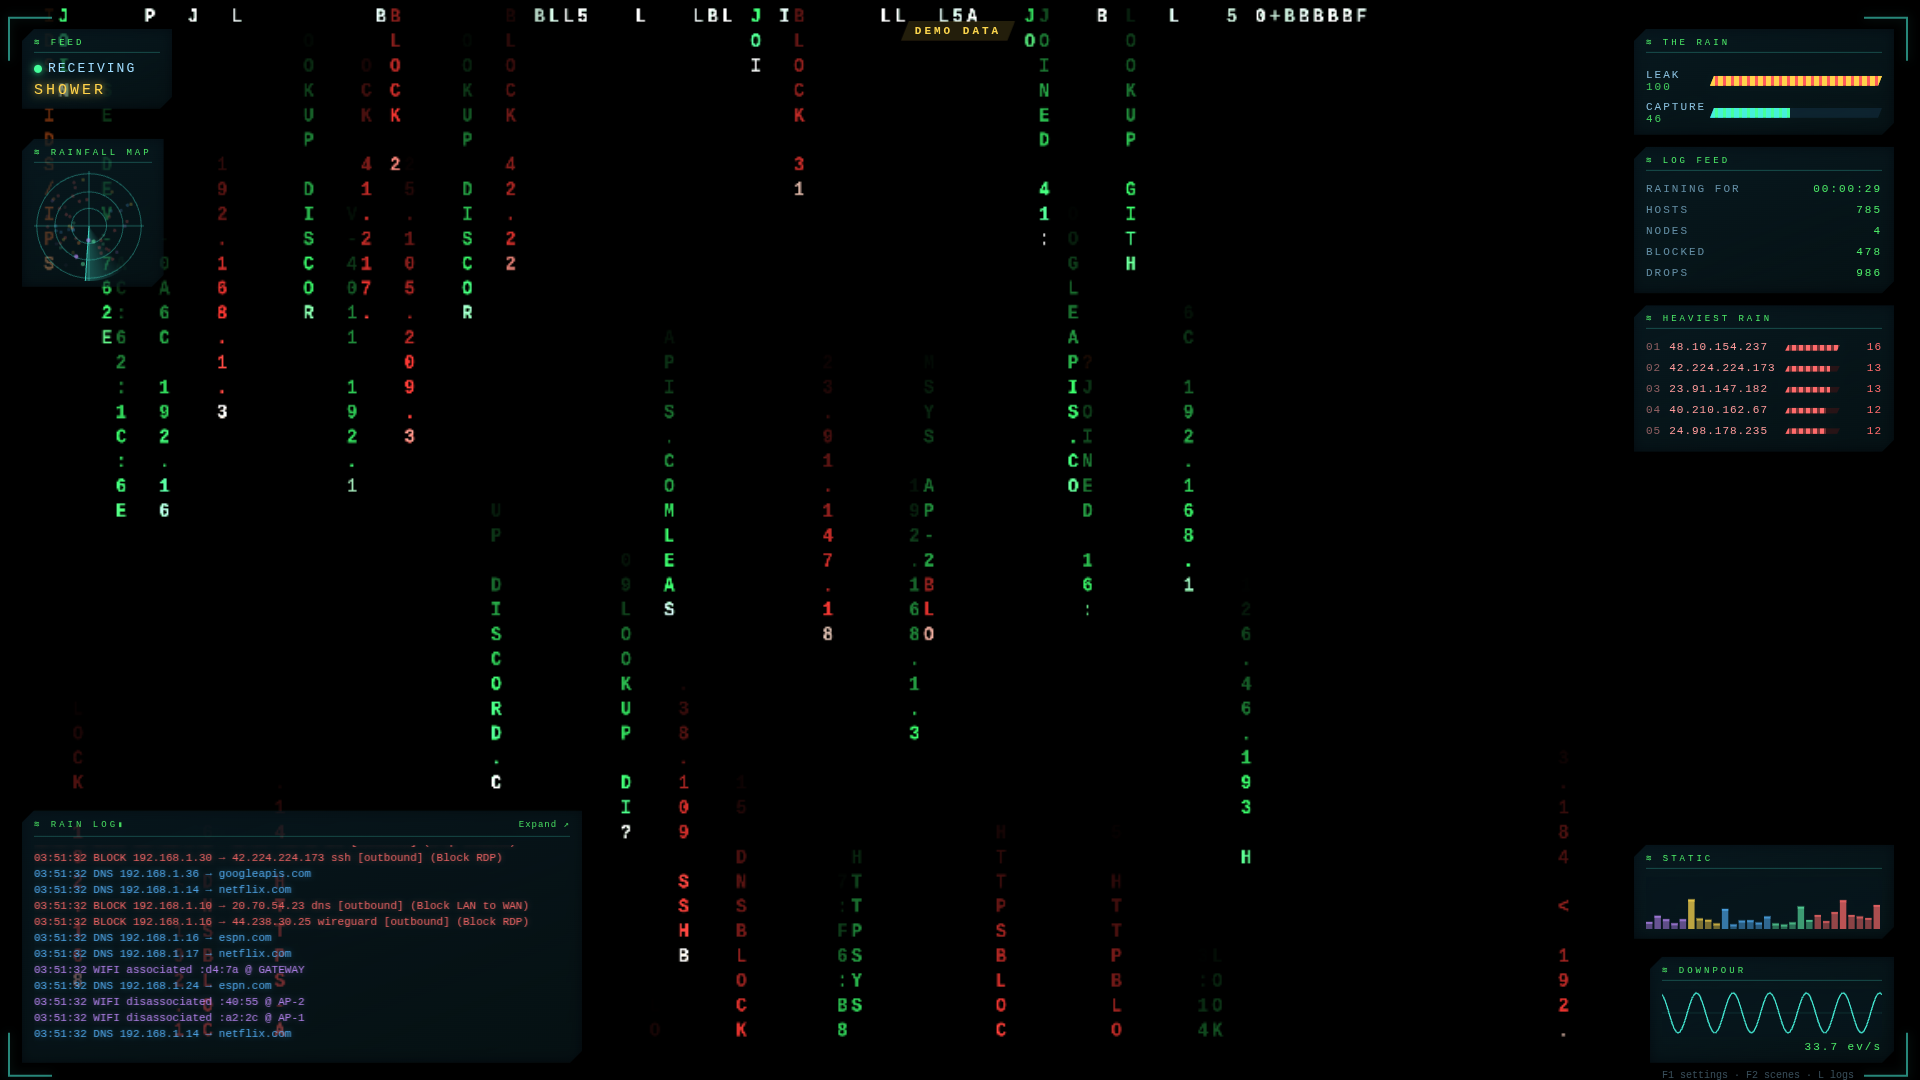
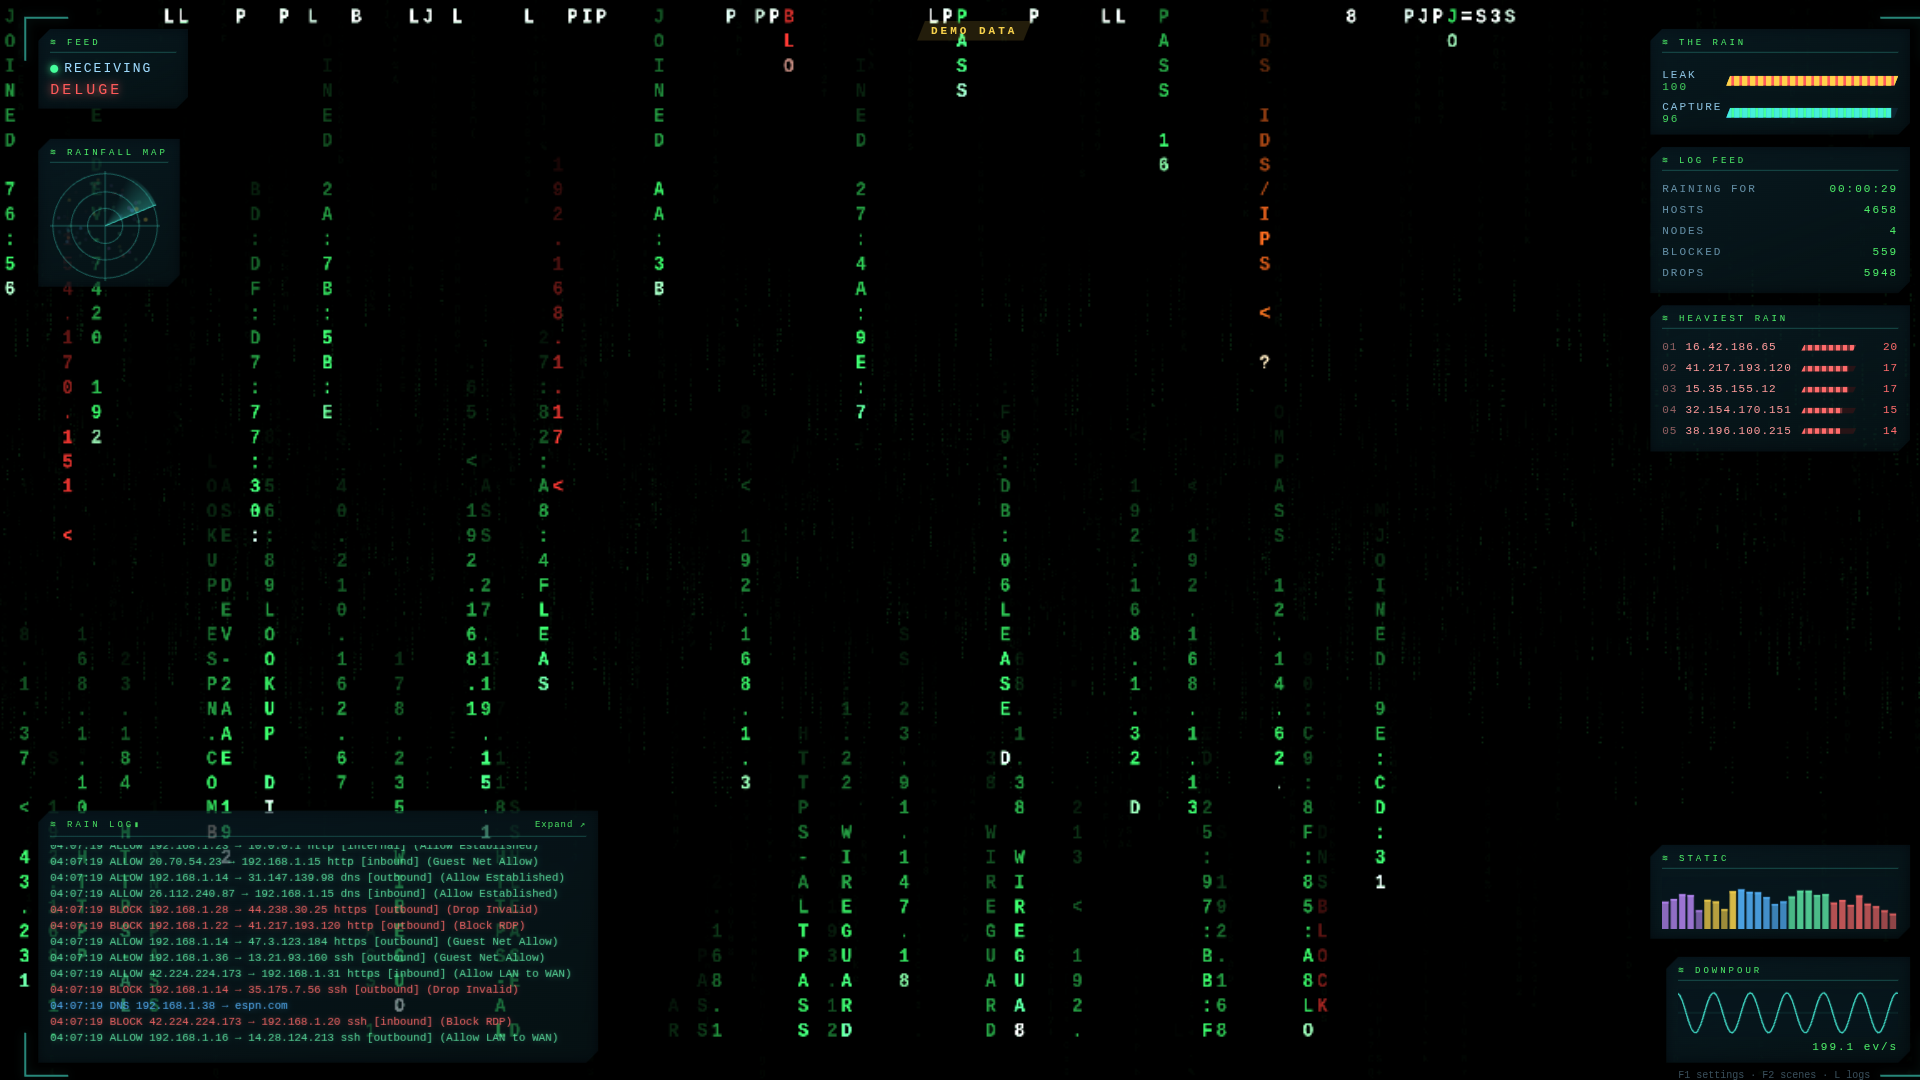
the rain: fly into the rain
the depth layers behind the log no longer just drift - they fly. each
layer is now two slices of procedural rain expanding out of a slowly
wandering vanishing point, fading in at the horizon and out as they
pass the camera, the fall cycle running on the warped uv so the far
rain falls while it dives. the near log stays orthographic and
readable; the motion lives entirely behind it.

the dive is weather like everything else: drizzle barely crawls
forward, a hurricane is a real fall into the sky. camera select in F1
- static / drift / fly into the rain - replaces the old drift toggle

diff --git a/web/src/themes/rain/shader.ts b/web/src/themes/rain/shader.ts
@@ -10,6 +10,10 @@
  * uCells: cols x rows RGBA8 - R glyph index (ASCII - 32), G event class,
  *         B per-cell seed.
  * uCols:  cols x 1 RGBA8 - RG head (16-bit, in cells), B speed, A class.
+ *
+ * The depth layers behind the log can drift (parallax pan) or fly: slices
+ * of procedural rain expanding out of a wandering vanishing point, which
+ * is what makes it feel like moving into the rain.
  */
 export const RAIN_VERT = /* glsl */`#version 300 es
 in vec2 aPosition;
@@ -37,7 +41,9 @@ uniform float uTime;
 uniform float uTrail;
 uniform float uWaves;
 uniform float uFog;
-uniform float uPan;
+uniform float uCam;
+uniform float uFly;
+uniform vec2 uVp;
 uniform float uColorMode;
 uniform float uFar;
 
@@ -100,6 +106,37 @@ vec3 farLayer(vec2 uv, float k, float fog) {
   return tint * a * fade * fog;
 }
 
+// depth: a slice of procedural rain flying toward the viewer - the dive.
+// The slice's cells expand outward from the vanishing point as it nears,
+// fading in at the horizon and out as they pass the camera. Two slices per
+// layer, half a cycle apart, so the stream never pauses.
+vec3 flyLayer(vec2 uv, float i, float sl, float fog) {
+  float ph = hash1(i * 7.31 + sl * 13.7);
+  float spd = 0.55 + hash1(i * 3.7 + 2.0) * 0.45;
+  float p = fract(uFly * spd + ph + sl * 0.5);
+  float sc = mix(0.06, 1.0, p * p);
+  vec2 vp = uVp + (vec2(hash1(i * 5.1 + sl * 9.0), hash1(i * 11.0 + sl * 3.0)) - 0.5) * 0.1;
+  vec2 uvf = (uv - vp) / sc + vp + vec2(ph, ph * 0.7);
+  vec2 grid = floor(uGrid * (1.7 + i * 0.9));
+  vec2 g = uvf * grid;
+  vec2 cell = floor(g);
+  vec2 f = fract(g);
+  float ph2 = hash1(cell.x * 0.71 + i * 13.0 + sl * 5.0);
+  float spd2 = 0.25 + hash1(cell.x * 1.7 + i * 7.0) * 0.5;
+  float cyc = grid.y + uTrail * 2.0;
+  float head = mod(uTime * grid.y * spd2 * 0.22 + ph2 * cyc, cyc) - uTrail;
+  float d = head - cell.y;
+  if (d < 0.0 || d > uTrail) return vec3(0.0);
+  float gi = hash2(cell.x + i * 31.0, cell.y + floor(uTime * spd2 * 2.0 + ph2 * 100.0));
+  float idx = floor(gi * 95.0);
+  vec2 ac = vec2(mod(idx, 16.0), floor(idx / 16.0));
+  float a = texture(uAtlas, (ac + f) / vec2(16.0, 6.0)).r;
+  float fade = pow(max(0.0, 1.0 - d / uTrail), 1.7);
+  float env = smoothstep(0.0, 0.35, p) * (1.0 - smoothstep(0.72, 1.0, p));
+  vec3 tint = uColorMode > 1.5 ? vec3(0.35, 0.7, 0.95) : vec3(0.2, 0.9, 0.38);
+  return tint * a * fade * fog * env * mix(0.3, 1.0, p);
+}
+
 void main() {
   vec2 uv = vUv;
   // burn-in drift, on a slight overscan so the edges never show
@@ -108,12 +145,16 @@ void main() {
   for (int i = 0; i < 3; i++) {
     float li = float(i);
     if (li >= uFar) break;
-    vec2 uvf = uv;
-    if (uPan > 0.5) {
-      uvf += vec2(sin(uTime * 0.023 + li * 2.0), cos(uTime * 0.017 + li * 3.0)) * 0.018 * (li + 1.0);
-    }
     float fog = mix(0.2, 0.3 / (1.0 + li * 1.5), uFog);
-    col += farLayer(uvf, 1.7 + li * 0.9, fog);
+    if (uCam > 1.5) {
+      col += flyLayer(uv, li, 0.0, fog) + flyLayer(uv, li, 0.5, fog);
+    } else {
+      vec2 uvf = uv;
+      if (uCam > 0.5) {
+        uvf += vec2(sin(uTime * 0.023 + li * 2.0), cos(uTime * 0.017 + li * 3.0)) * 0.018 * (li + 1.0);
+      }
+      col += farLayer(uvf, 1.7 + li * 0.9, fog);
+    }
   }
   finalColor = vec4(col, 1.0);
 }

diff --git a/web/src/themes/rain/index.ts b/web/src/themes/rain/index.ts
@@ -8,7 +8,8 @@ import { rainScore } from './score';
 /**
  * The Rain: the firewall log as digital rain, glmatrix style - columns of
  * glyphs falling out of the dark with a white spinner at the head and a
- * fading trail behind it, depth layers drifting behind the near one. The
+ * fading trail behind it, and behind them slices of rain flying out of a
+ * wandering vanishing point, so it feels like moving into the rain. The
  * glyphs are not the matrix: they are tonight's log. Every event writes a
  * line - BLOCK, LOOKUP, LEASE, IDS - and the columns carry it down the
  * screen one character at a time, green for traffic that passes, red for
@@ -84,6 +85,7 @@ async function create(host: ThemeHost<typeof RAIN_DEFAULTS>, init: RendererInit)
   }
 
   let lastW = 0, lastH = 0;
+  let fly = 0; // dive phase: how deep into the rain we are
 
   function frame(f: FrameInfo): void {
     const dt = f.dt;
@@ -98,6 +100,8 @@ async function create(host: ThemeHost<typeof RAIN_DEFAULTS>, init: RendererInit)
     const wet = state.weather === 'hurricane' ? 1 : state.weather === 'storm' ? 0.5 : 0;
     const wSpeed = settings.rWeather ? 1 + wet * 0.7 : 1;
     const wDens = settings.rWeather ? 0.75 + wet * 0.25 : 1;
+    // and the dive into the rain is weather too: drizzle crawls, deluge falls
+    fly += dt * (0.03 + wet * 0.22) * settings.rSpeed;
 
     scene.step(dt, {
       speed: settings.rSpeed,
@@ -111,7 +115,10 @@ async function create(host: ThemeHost<typeof RAIN_DEFAULTS>, init: RendererInit)
       trail: settings.rTrail,
       waves: settings.rWaves,
       fog: settings.rFog,
-      pan: settings.rPan,
+      cam: settings.rCam === 'fly' ? 2 : settings.rCam === 'drift' ? 1 : 0,
+      fly,
+      vpX: 0.5 + Math.sin(f.t * 0.031) * 0.12,
+      vpY: 0.5 + Math.cos(f.t * 0.023) * 0.09,
       colorMode: settings.rColor === 'green' ? 1 : settings.rColor === 'ice' ? 2 : 0,
       farLayers: settings.rFarLayers,
     });

diff --git a/web/src/themes/rain/rain.ts b/web/src/themes/rain/rain.ts
@@ -45,7 +45,9 @@ interface RainUniforms {
   uTrail: number;
   uWaves: number;
   uFog: number;
-  uPan: number;
+  uCam: number;
+  uFly: number;
+  uVp: Float32Array;
   uColorMode: number;
   uFar: number;
 }
@@ -78,7 +80,9 @@ export class Rain {
       uTrail: { value: 12, type: 'f32' },
       uWaves: { value: 1, type: 'f32' },
       uFog: { value: 1, type: 'f32' },
-      uPan: { value: 1, type: 'f32' },
+      uCam: { value: 2, type: 'f32' },
+      uFly: { value: 0, type: 'f32' },
+      uVp: { value: new Float32Array([0.5, 0.5]), type: 'vec2<f32>' },
       uColorMode: { value: 0, type: 'f32' },
       uFar: { value: 2, type: 'f32' },
     });
@@ -230,13 +234,15 @@ export class Rain {
     this.u.uWander.set([x, y]);
   }
 
-  uniforms(t: number, o: { trail: number; waves: boolean; fog: boolean; pan: boolean; colorMode: number; farLayers: number }): void {
+  uniforms(t: number, o: { trail: number; waves: boolean; fog: boolean; cam: number; fly: number; vpX: number; vpY: number; colorMode: number; farLayers: number }): void {
     const u = this.u;
     u.uTime = t;
     u.uTrail = o.trail;
     u.uWaves = o.waves ? 1 : 0;
     u.uFog = o.fog ? 1 : 0;
-    u.uPan = o.pan ? 1 : 0;
+    u.uCam = o.cam;
+    u.uFly = o.fly;
+    u.uVp.set([o.vpX, o.vpY]);
     u.uColorMode = o.colorMode;
     u.uFar = o.farLayers;
   }

diff --git a/web/src/themes/rain/settings.ts b/web/src/themes/rain/settings.ts
@@ -16,7 +16,7 @@ export const RAIN_DEFAULTS = {
   rFog: true,                // depth fog on the far layers
   rWaves: true,              // rolling brightness waves down the columns
   rFlicker: true,            // trail glyphs mutate while they fade
-  rPan: true,                // slow parallax drift between the layers
+  rCam: 'fly' as string,     // off | drift | fly (into the rain)
   rWeather: true,            // traffic weather drives the downpour
 
   // soundtrack
@@ -58,7 +58,8 @@ export const RAIN_CONTROLS = {
     range('rGlyph', 'Glyph size', 10, 28, 1),
     select('rColor', 'Colour', [['event', 'Green, red for blocks'], ['green', 'Classic green'], ['ice', 'Ice']]),
     toggle('rFog', 'Depth fog'), toggle('rWaves', 'Brightness waves'),
-    toggle('rFlicker', 'Glyph flicker'), toggle('rPan', 'Camera drift'),
+    toggle('rFlicker', 'Glyph flicker'),
+    select('rCam', 'Camera', [['off', 'Static'], ['drift', 'Drift'], ['fly', 'Fly into the rain']]),
     toggle('rWeather', 'Weather is traffic'),
   ],
   budgets: [

diff --git a/README.md b/README.md
@@ -431,7 +431,7 @@ panel's **Apply & reload**.
 
 | Tab | What's in it |
 |-----|--------------|
-| **Scene** | the scene's own toggles. Orbital Command: starfield, nebula, dust, ambient ships, DHCP planets, event stars, asteroids, attack rockets, crystals, IP constellations, ring objects, AP cores, screen shake, move with the music. Last Outpost: per-event-type visuals, buildings, day/night, rain, lightning, blood, screen shake, move with the music, plus budgets for zombies, blood decals, tents and fog + flashlights. Midnight Run: traffic, roadblocks, police chase, rivals, DNS billboards, Wi-Fi gates, rain, camera nudge, move with the music. Packet Rush: gems, baddies, query blocks, rivals, checkpoints, hunter drone, rain and embers, turbo, boss fights, hero. Panopticon: signal arcs, tracking, satellites, uplinks, ripples, clouds and storms, grid, move with the music, eye of god, and how often the eye is tasked. Mainframe: packets, firewalls, worms and ICE, lookup towers, pick-and-place, antennas, floating addresses, move with the music, flight speed, dive into a chip, and how often it dives. Aquarium: schools, pufferfish, shark, bubbles, residents, treasure chest, light dimming on system log bursts, names and addresses, how many residents the reef holds, current, camera drift. The Gibson: face pulses, scrolling listings, tower rewrites, access banners, target lock, move with the music, scroll speed. Mycelium: growing hyphae, DNS blooms, DHCP sprouts, Wi-Fi spores, block scorch, threat blight, device labels, keeping the garden across reloads, hypha half-life, bioluminescence, and spore drift. Undergrowth: light pulses, DNS blooms, DHCP sprouts, Wi-Fi spores, block scorch, threat blight, labels, following events, keeping the garden across reloads, the aurora sky, flight speed, bioluminescence, spore drift, and hypha half-life. FRAGNET: each event's effect, the weapon, gore, patrol speed and traces per level. Substrate: allow cracks, block scars, threat fractures, DNS blooms, DHCP seeds, Wi-Fi drift, host seeding, the pigment wash, crack hairlines, naming the busiest district, a new paper each picture, plus seconds per picture, pigment strength and wander. Slipstream: the circuit (or a home track picked by hostname), whether the camera follows the busiest host or the leader, draft surges, sprint and sponsor board, pit takeovers, oil spins, red shells, boost pads, yellow cautions, speed chevrons, background wobble, corner minimap and race pace |
+| **Scene** | the scene's own toggles. Orbital Command: starfield, nebula, dust, ambient ships, DHCP planets, event stars, asteroids, attack rockets, crystals, IP constellations, ring objects, AP cores, screen shake, move with the music. Last Outpost: per-event-type visuals, buildings, day/night, rain, lightning, blood, screen shake, move with the music, plus budgets for zombies, blood decals, tents and fog + flashlights. Midnight Run: traffic, roadblocks, police chase, rivals, DNS billboards, Wi-Fi gates, rain, camera nudge, move with the music. Packet Rush: gems, baddies, query blocks, rivals, checkpoints, hunter drone, rain and embers, turbo, boss fights, hero. Panopticon: signal arcs, tracking, satellites, uplinks, ripples, clouds and storms, grid, move with the music, eye of god, and how often the eye is tasked. Mainframe: packets, firewalls, worms and ICE, lookup towers, pick-and-place, antennas, floating addresses, move with the music, flight speed, dive into a chip, and how often it dives. Aquarium: schools, pufferfish, shark, bubbles, residents, treasure chest, light dimming on system log bursts, names and addresses, how many residents the reef holds, current, camera drift. The Gibson: face pulses, scrolling listings, tower rewrites, access banners, target lock, move with the music, scroll speed. The Rain: fall speed, density, trail length, glyph size, colour, depth fog, brightness waves, glyph flicker, camera (static, drift, or fly into the rain), and whether the weather drives the downpour. Mycelium: growing hyphae, DNS blooms, DHCP sprouts, Wi-Fi spores, block scorch, threat blight, device labels, keeping the garden across reloads, hypha half-life, bioluminescence, and spore drift. Undergrowth: light pulses, DNS blooms, DHCP sprouts, Wi-Fi spores, block scorch, threat blight, labels, following events, keeping the garden across reloads, the aurora sky, flight speed, bioluminescence, spore drift, and hypha half-life. FRAGNET: each event's effect, the weapon, gore, patrol speed and traces per level. Substrate: allow cracks, block scars, threat fractures, DNS blooms, DHCP seeds, Wi-Fi drift, host seeding, the pigment wash, crack hairlines, naming the busiest district, a new paper each picture, plus seconds per picture, pigment strength and wander. Slipstream: the circuit (or a home track picked by hostname), whether the camera follows the busiest host or the leader, draft surges, sprint and sponsor board, pit takeovers, oil spins, red shells, boost pads, yellow cautions, speed chevrons, background wobble, corner minimap and race pace |
 | **HUD** | each HUD panel on or off (names follow the scene), plus scanlines |
 | **Audio** | see [Mixing](#mixing) |
 | **Colour** | hue shift and intensity for the HUD accent; Orbital Command also recolours its host mesh (spectrum, event law, mono, warm, cool). Event colours never change |
@@ -952,15 +952,18 @@ the pace of the patrol.
 
 xscreensaver's glmatrix, rebuilt as a shader and pointed at your firewall:
 columns of glyphs fall out of the dark, a white spinner at the head of each
-one and a fading trail behind it, with foggy depth layers drifting behind the
-near field. But the glyphs are not the matrix — they are tonight's log. Every
+one and a fading trail behind it, while behind them slices of rain fly out of
+a wandering vanishing point — the classic feeling of moving into the rain.
+But the glyphs are not the matrix — they are tonight's log. Every
 event becomes a line (`BLOCK 203.0.113.7 < 192.168.1.23`, `LOOKUP github.com`,
 `LEASE kitchen-tv 192.168.1.44`, `IDS sql-injection`) and the columns carry it
 down the screen one character at a time, in the log's own colours: green for
 traffic that passes, red for what gets denied, orange for intrusions. When
 nothing happens the columns fall as hex static — the shape an idle firewall
 makes. The weather is the traffic, so a quiet night is a drizzle of a few
-lazy columns and a hurricane is a full downpour, faster and thicker.
+lazy columns and a hurricane is a full downpour, faster and thicker — and the
+dive into the rain is weather too: the drizzle barely drifts forward, while a
+hurricane is a real fall into the sky.
 
 The whole scene is one fragment shader: the CPU only writes glyph indices
 into a small data texture as each spinner falls, and the trail is computed
@@ -981,8 +984,8 @@ crack first, rumble a stride behind — for intrusions.
 
 In F1 → Scene: fall speed, density, trail length, glyph size, colour
 (green-with-red / classic green / ice), depth fog, brightness waves, glyph
-flicker, camera drift, and whether the weather is allowed to drive the
-downpour.
+flicker, camera (static / drift / fly into the rain), and whether the weather
+is allowed to drive the downpour.
 
 ### Mycelium
 
